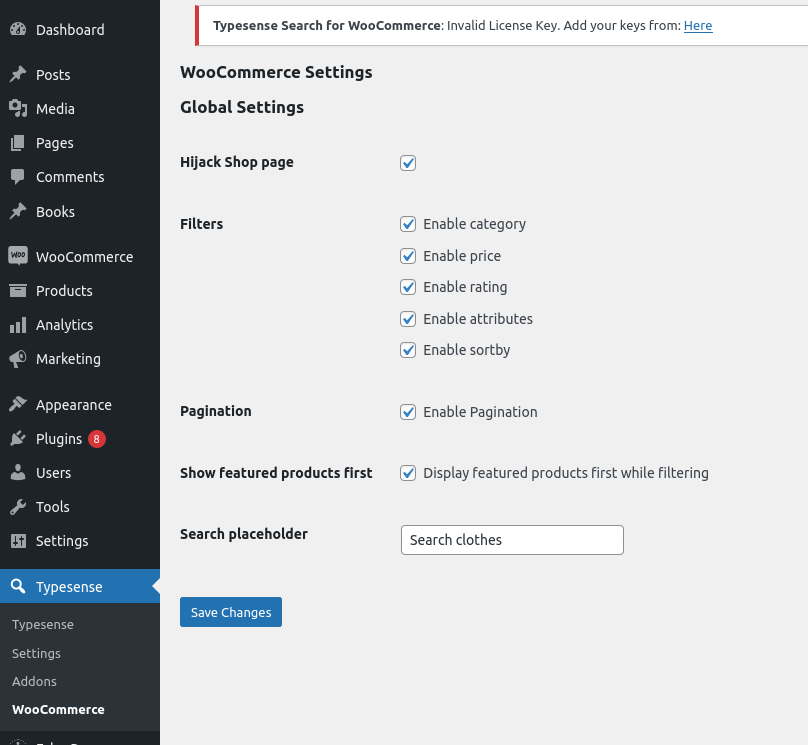
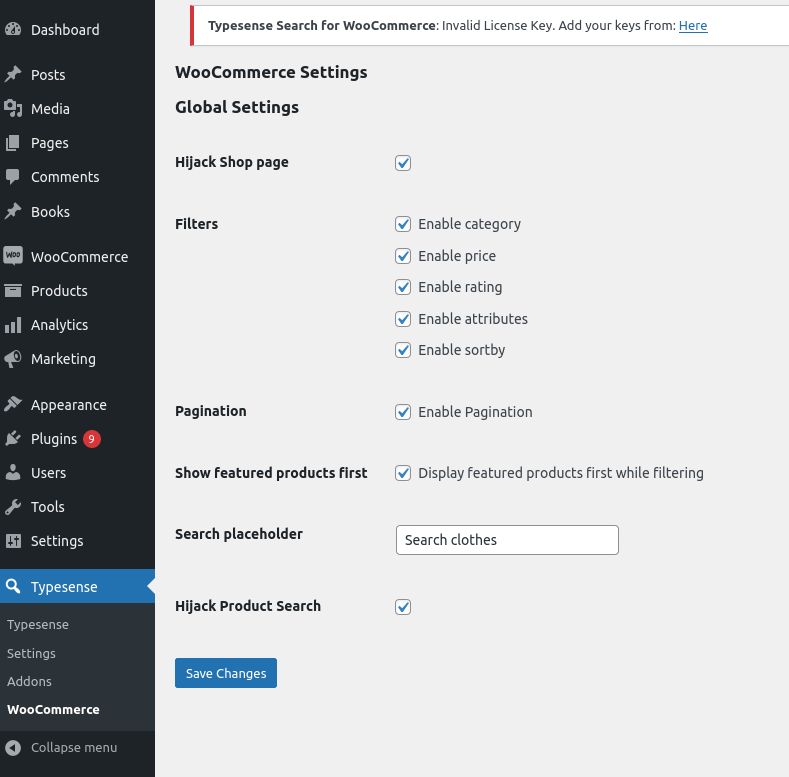
Deploy TSFWC

diff --git a/site/tsfwc/index.html b/site/tsfwc/index.html
@@ -850,6 +850,9 @@
 <li>
 <p><strong>Search placeholder</strong> - Change placeholder text on the shop's search</p>
 </li>
+<li>
+<p><strong>Hijack Product Search</strong> - Hijack WooCommerce search widget and block with Autocomplete.</p>
+</li>
 </ol>
 <p><img alt="Product Setting" src="../img/setting.png" /></p>
 <p><strong>Note:</strong> Same settings are provided in <strong>Dashboard-&gt;Customize</strong> then <strong>WooCommerce-&gt;Typesense Settings</strong> for previewing the live changes.</p>
